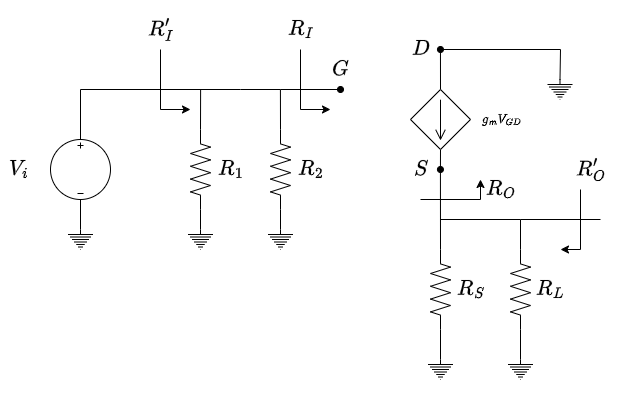
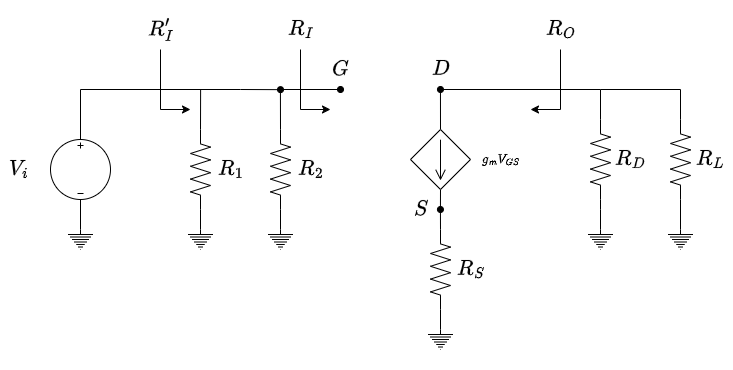
**FIX**: typos and wrong paramether in images

diff --git a/README.md b/README.md
@@ -73,8 +73,8 @@ Gli appunti non sono terminati e potrebbero avere errori e/o potrebbero mancare 
 2. [Corrente nei Materiali](./Corrente%20nei%20Materiali)
 3. [Diodo](./Diodo)
 5. [Rettificatori di Tensione](./Rettificatori%20di%20Tensione)
-6. [Trasistore Bipolare](./Transistore%20Bipolare)
-7. [Trasistore a Effetto di Campo](./Transistore%20a%20Effetto%20Di%20Campo)
+6. [Transistore Bipolare](./Transistore%20Bipolare)
+7. [Transistore a Effetto di Campo](./Transistore%20a%20Effetto%20Di%20Campo)
 8. [Circuiti Amplificatori](./Circuiti%20Amplificatori)
 9. [Regolatori di Tensione](./Regolatori%20di%20Tensione)
 10. [Circuiti Digitali](./Circuiti%20Digitali)
